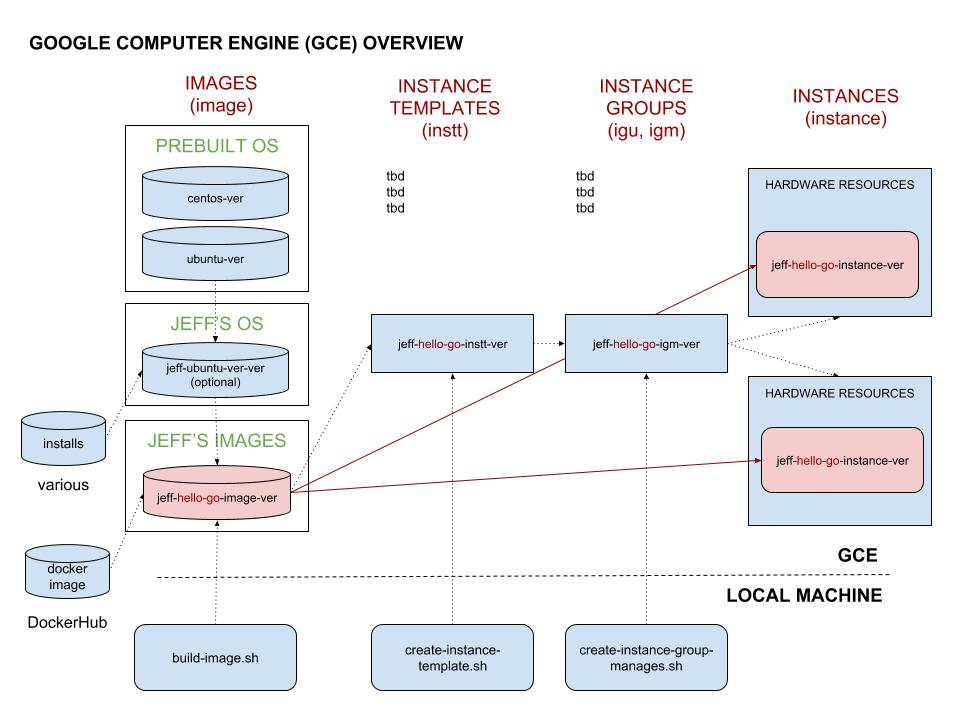
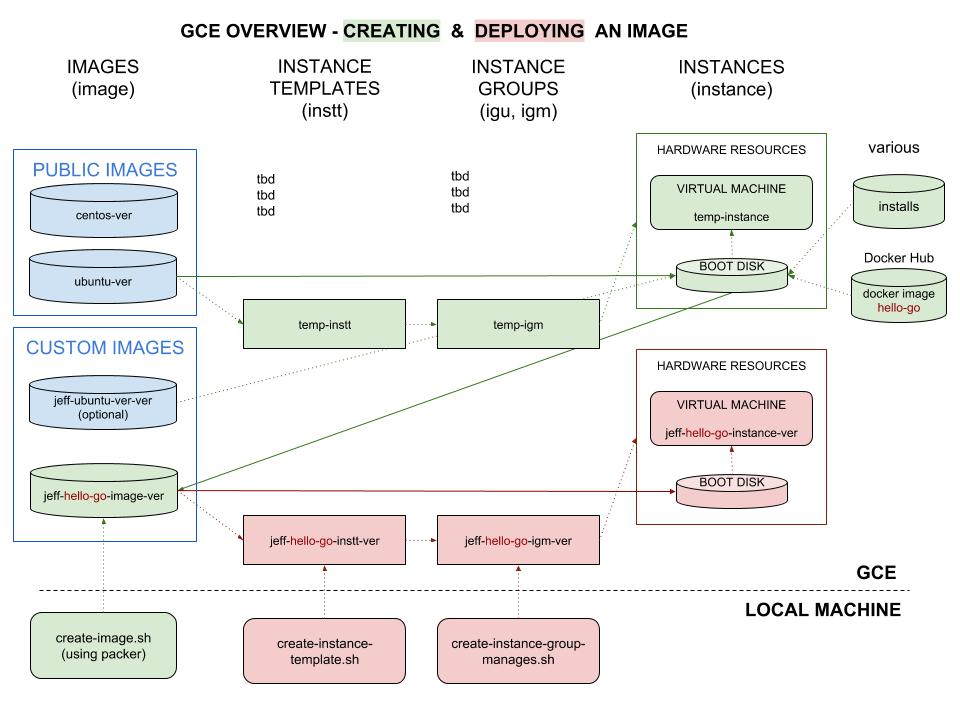
updated gce

diff --git a/software/infrastructure-as-a-service/cloud-services-compute/google-cloud-platform-cheat-sheet/google-compute-engine.md b/software/infrastructure-as-a-service/cloud-services-compute/google-cloud-platform-cheat-sheet/google-compute-engine.md
@@ -22,6 +22,11 @@ View my entire list of cheat sheets on
 
 ## OVERVIEW
 
+gce lets you create and run virtual machines. 
+Compute Engine offers scale, performance, and value that allows
+you to easily launch large compute clusters on Google's infrastructure.
+There are no upfront investments.  Pay what you use.
+
 ## FREE RESOURCE (f1-micro)
 
 As of my last update, there is a free
@@ -178,6 +183,12 @@ gcloud help compute instance-groups unmanaged create
 gcloud help compute instances create
 ```
 
+ssh onto a instance `hello-go` in zone `us-west1-a`,
+
+```bash
+gcloud compute --project "<project-name>" ssh --zone "us-west1-a" "hello-go"
+```
+
 ## GOOGLE COMPUTE ENGINE (GCE) OVERVIEW
 
 There are 4 main section of gce:
@@ -187,9 +198,26 @@ There are 4 main section of gce:
 * INSTANCE GROUPS
 * INSTANCES
 
+We will go over each section below.
+
 ![IMAGE -  google compute engine overview - IMAGE](../../../../docs/pics/google-compute-engine-overview.jpg)
 
 ### IMAGES
+
+As shown in the illustration, images are used to create your instance.
+
+There are two types of images,
+
+* `Public images` are provided and maintained by Google,
+  open-source communities, and third-party vendors.
+* `Custom images` are available only to your project.
+  You can create a custom image from boot disks and other images.
+  Then, use the custom image to create an instance.
+
+Refer to these cheat for `creating custom images` (packer is easier and recommended),
+
+* [create custom image using packer](https://github.com/JeffDeCola/my-cheat-sheets/tree/master/software/infrastructure-as-a-service/cloud-services-compute/google-cloud-platform-cheat-sheet/google-compute-engine-create-image-packer.md)
+* [create custom image using gcloud](https://github.com/JeffDeCola/my-cheat-sheets/tree/master/software/infrastructure-as-a-service/cloud-services-compute/google-cloud-platform-cheat-sheet/google-compute-engine-create-image-gcloud.md)
 
 List your images,
 
@@ -197,12 +225,15 @@ List your images,
 gcloud compute images list
 ```
 
+Delete an image,
+
 ```bash
-gcloud help compute images create
-???
+gcloud compute images delete <IMAGENAME>
 ```
 
 ### INSTANCE TEMPLATES
+
+Instance templates are ???
 
 List your instance templates,
 
@@ -218,6 +249,8 @@ gcloud help compute instance-templates create
 ```
 
 ### INSTANCE GROUPS
+
+Instance groups are ????
 
 A manged machine...???
 
@@ -236,6 +269,8 @@ gcloud help compute instance-groups unmanaged create
 ```
 
 ### INSTANCES
+
+Instance are ???
 
 List your instances/VMs,
 

diff --git a/software/infrastructure-as-a-service/cloud-services-compute/google-cloud-platform-cheat-sheet/google-compute-engine-create-image-gcloud.md b/software/infrastructure-as-a-service/cloud-services-compute/google-cloud-platform-cheat-sheet/google-compute-engine-create-image-gcloud.md
@@ -1,0 +1,26 @@
+# CREATE IMAGE USING GCLOUD CHEAT SHEET
+
+`create custom image using gcloud` _is one of two ways
+to create a custom image on `gce`._
+
+View my entire list of cheat sheets on
+[my GitHub Webpage](https://jeffdecola.github.io/my-cheat-sheets/).
+
+## OVERVIEW
+
+I personally do not like this way since it requires a
+lot of steps that are not script friendly.
+
+Use 
+[create custom image using packer](https://github.com/JeffDeCola/my-cheat-sheets/tree/master/software/infrastructure-as-a-service/cloud-services-compute/google-cloud-platform-cheat-sheet/google-compute-engine-create-image-packer.md)
+instead.
+
+But as a high level overview,
+
+* Start up an `instance` using an existing `image`.
+* ssh into that instance and add whatever you want (ugly).
+* When you are happy, stop the `instance` so that it can shut down
+  and stop writing any data to the `persistent disk`.
+* Create `image` from instance's `persistent disk` or `snapshot`.
+
+You can script this, but I don't like the process.

diff --git a/software/infrastructure-as-a-service/cloud-services-compute/google-cloud-platform-cheat-sheet/google-compute-engine-create-image-packer.md b/software/infrastructure-as-a-service/cloud-services-compute/google-cloud-platform-cheat-sheet/google-compute-engine-create-image-packer.md
@@ -1,0 +1,11 @@
+# CREATE IMAGE USING PACKER CHEAT SHEET
+
+`create custom image using packer` _is one of two ways
+to create a custom image on `gce`._
+
+My Repo example is [hello-go-deploy-gce](https://github.com/JeffDeCola/hello-go-deploy-gce).
+
+View my entire list of cheat sheets on
+[my GitHub Webpage](https://jeffdecola.github.io/my-cheat-sheets/).
+
+## OVERVIEW
